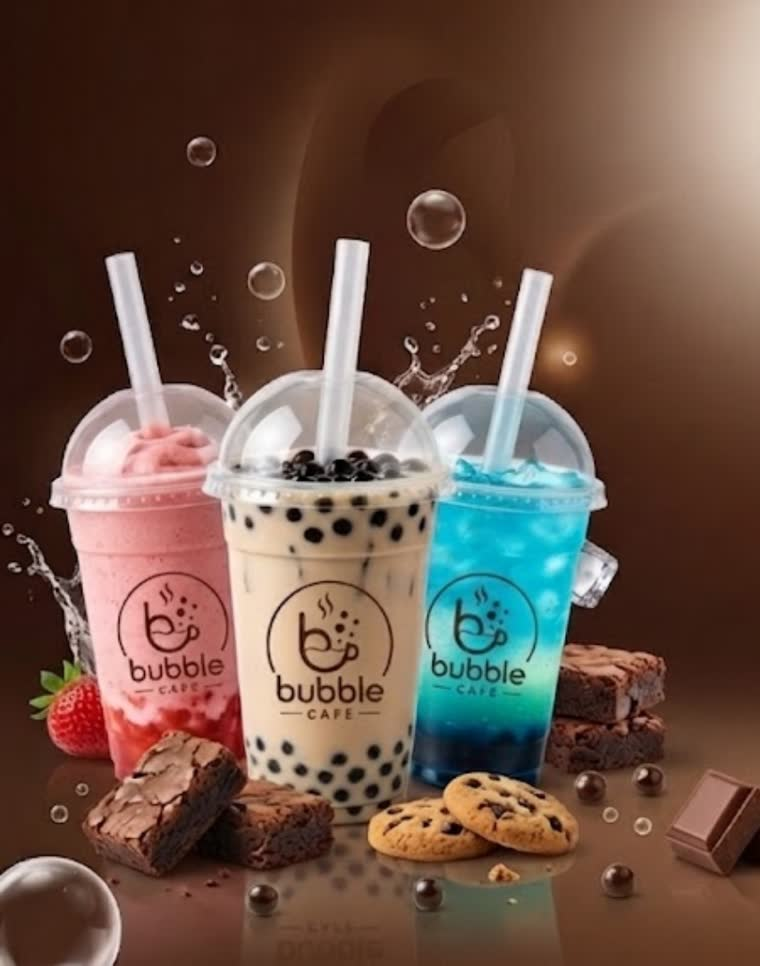
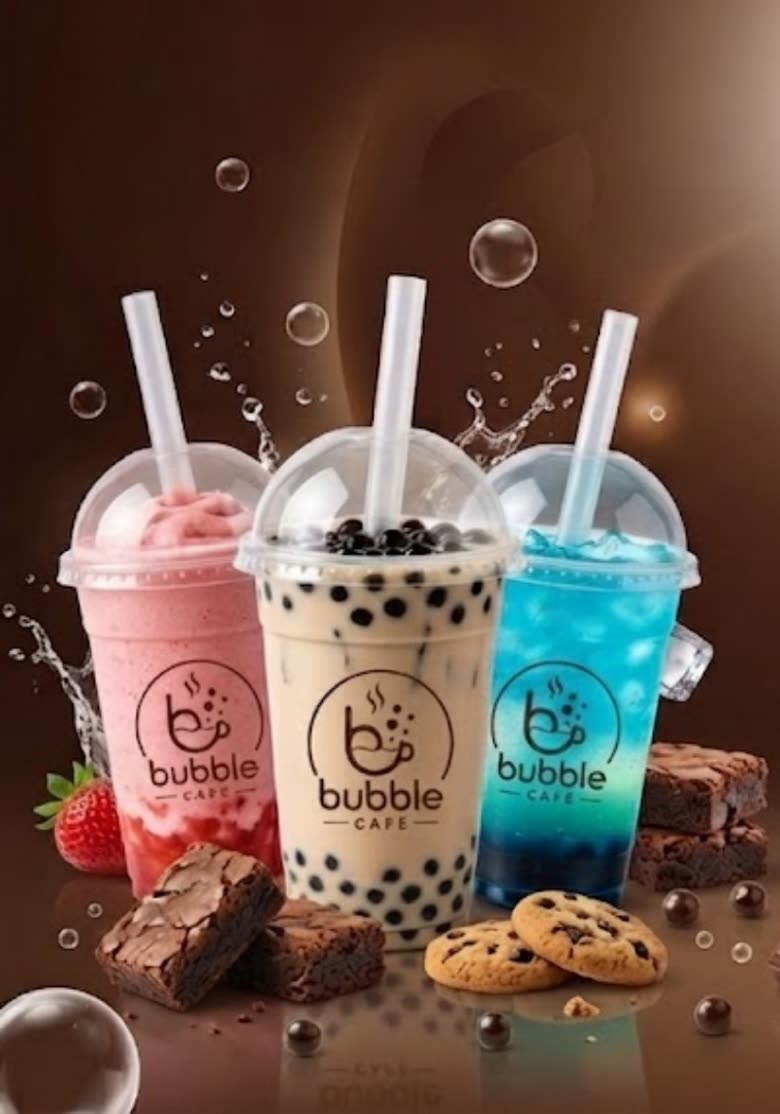
Show the phone hero photo instead of dimming it
The image was hidden by two things: an 11% side crop, and a scrim that
reached 78-90% opacity over the drinks so the text could read.

- Recut hero-phone.jpg to 780x1114, exactly the 0.70 ratio of the phone
  hero box, so object-fit:cover now crops nothing (measured 100% of the
  width and height visible at 412x700, 98.7% at 360x620).

- Drop the overall scrim to 14-40% and get the text contrast from a soft
  radial pool of shade behind the text block (.hero-in::before) plus text
  shadows on the headline, subtitle and cue, and slightly more opaque
  chips. Contrast is now local to the type rather than applied to the
  whole photograph.

Desktop is untouched; both changes live in the max-width:760px query.

diff --git a/index.html b/index.html
@@ -368,11 +368,20 @@ section{position:relative;z-index:1}
   /* Phone hero: tighter vertical rhythm so badge, headline, chips and the
      scroll cue all fit above the fold without clipping */
   .hero{min-height:84svh;padding-block:30px 34px}
-  /* the phone crop puts drinks under the text, so darken from the headline
-     down while leaving the airy brown top visible */
+  /* Let the photo read. Only a light overall wash plus the bottom fade into
+     the page; the contrast the text needs comes from the pool of shade
+     behind it (.hero-in::before) rather than from dimming the whole image. */
   .hero-bg::after{background:linear-gradient(to bottom,
-    rgba(24,13,8,.28) 0%, rgba(24,13,8,.24) 22%, rgba(24,13,8,.58) 40%,
-    rgba(24,13,8,.78) 62%, rgba(24,13,8,.90) 82%, var(--espresso) 100%)}
+    rgba(24,13,8,.30) 0%, rgba(24,13,8,.14) 26%, rgba(24,13,8,.18) 52%,
+    rgba(24,13,8,.40) 78%, var(--espresso) 100%)}
+  .hero-in::before{content:"";position:absolute;inset:-5% -9%;z-index:-1;
+    pointer-events:none;
+    background:radial-gradient(56% 45% at 50% 43%,
+      rgba(12,6,3,.74), rgba(12,6,3,.36) 58%, transparent 78%)}
+  .hero h1{text-shadow:0 2px 12px rgba(0,0,0,.92),0 8px 34px rgba(0,0,0,.65)}
+  .hero-sub{text-shadow:0 2px 10px rgba(0,0,0,.88)}
+  .chip{background:rgba(30,17,10,.74)}
+  .scroll-cue{text-shadow:0 2px 8px rgba(0,0,0,.85)}
   .hero-badge{width:92px;height:92px;margin-bottom:24px;
     box-shadow:0 16px 44px rgba(0,0,0,.5),0 0 0 6px rgba(200,149,99,.12)}
   /* .55em not .3em — the Arabic ink still sits ~5px below its line box */
